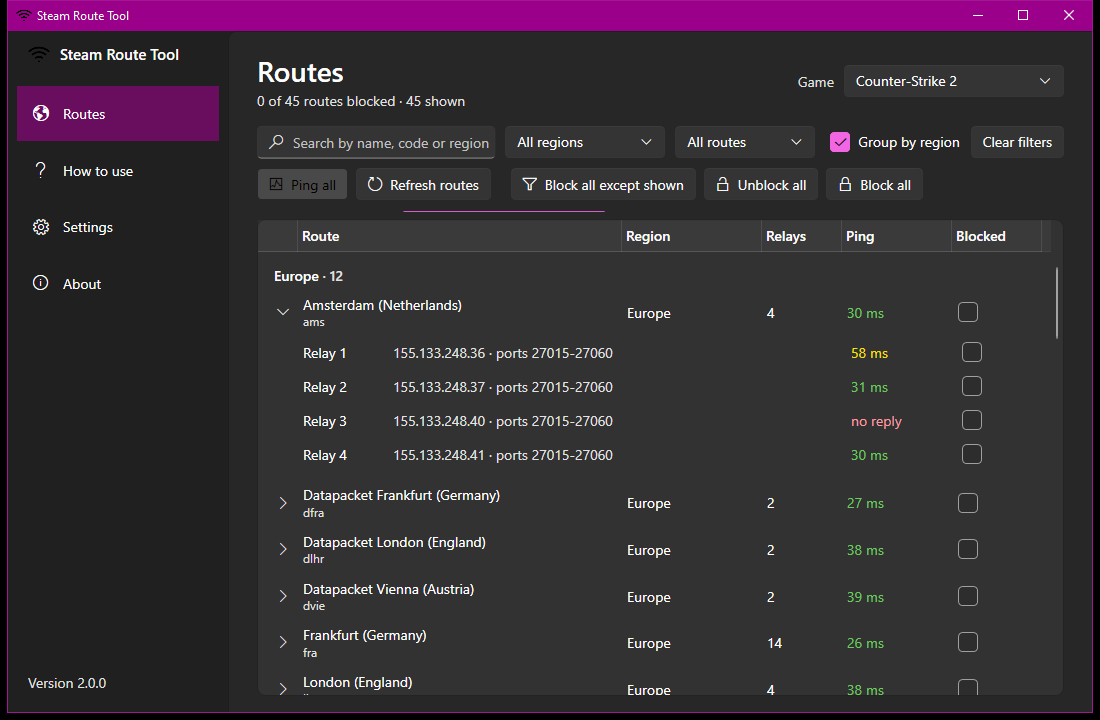
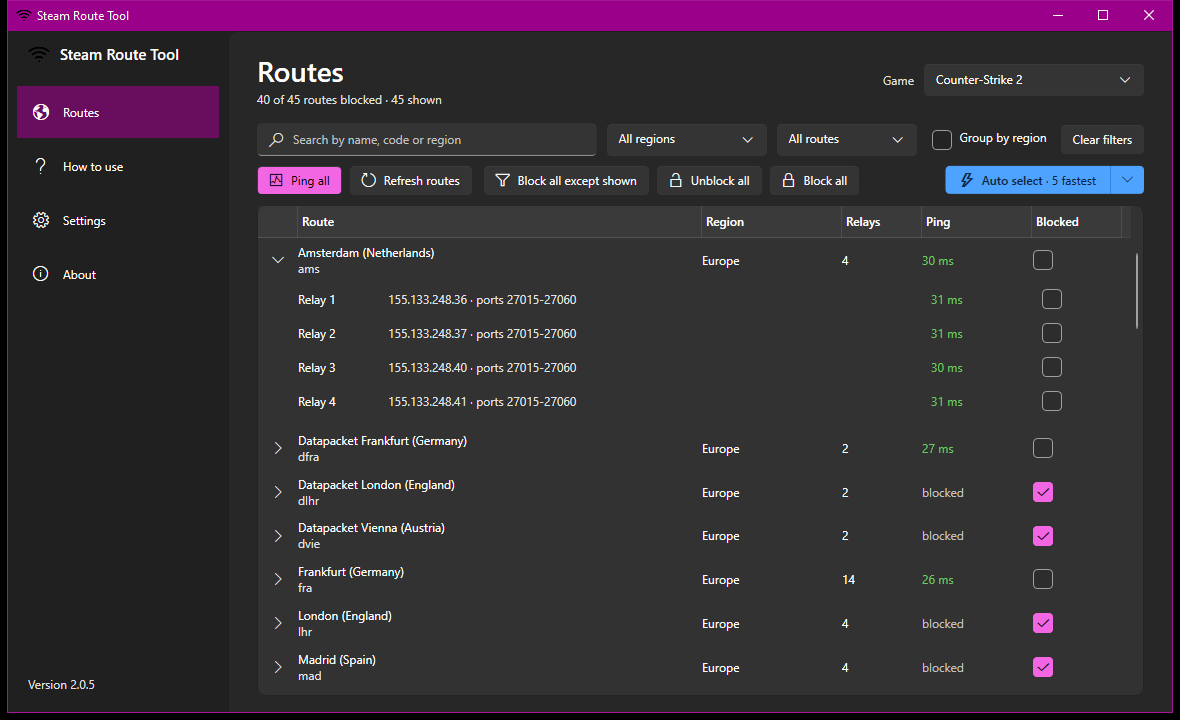
docs: Update README screenshots for 2.0.5 and add the Settings page

diff --git a/README.md b/README.md
@@ -23,13 +23,22 @@ Get `SteamRouteTool-<version>-win-x64.exe` from [Releases](../../releases). It's
 - **Auto select:** one click keeps the 5 fastest routes and blocks the rest (choose another number, with a preview, from the arrow; Undo is one click away).
 - **Play in one region:** filter to a region (or search) and use **Block all except shown**.
 - **Sort and filter:** search by name, code or region; filter by region or blocked state; group by region or sort by any column.
-- **Pings that work on every network:** a quick round fills the list in a second or two; anything that didn't answer is retried one at a time for networks that drop parallel pings. Last session's pings are shown straight away.
+- **Fast, reliable pings:** a quick round fills the list in a second or two; anything that didn't answer is retried one at a time for networks that drop parallel pings. Last session's pings are shown straight away.
 - **Game profiles:** each game remembers its blocked routes and applies them when you switch games.
 - **Block only while the app is open** (optional): remove all rules when the app closes and re-apply your selection on the next start.
 - **Light and dark theme** (Windows 11 style, follows your Windows setting).
 - **Built-in help, update check and links** to the changelog and releases.
 
 The app's **How to use** page explains everything step by step.
+
+## Settings
+
+![Steam Route Tool: the Settings page](docs/settings.png)
+
+- **Theme:** System, Light or Dark.
+- **Ping routes automatically** when the app starts or you switch games. Turn it off to see the last known pings until you click **Ping all**.
+- **Unblock all routes when closing:** routes are only blocked while the app is open. Your selection is kept and applied again on the next start.
+- Shortcuts to the folder with your settings and game profiles, and to Windows Defender Firewall, where the rules can be inspected.
 
 ## How it works
 
